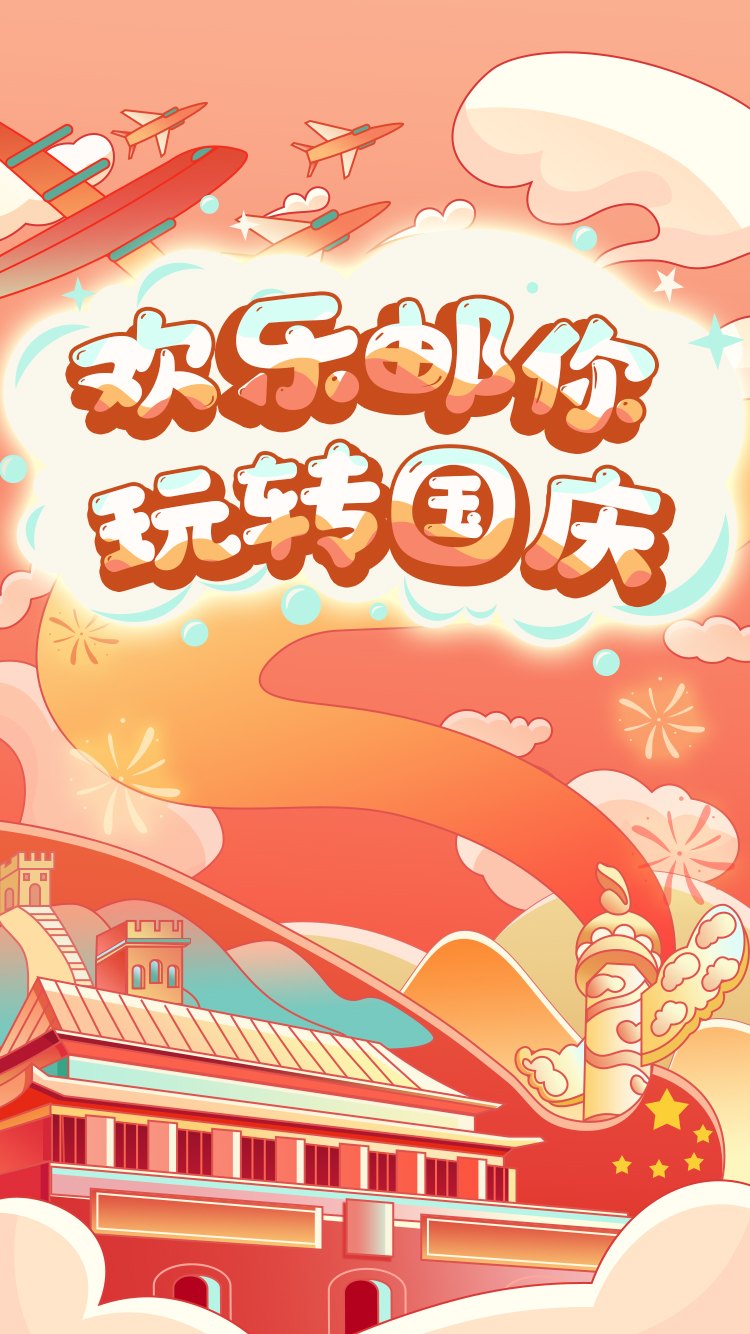
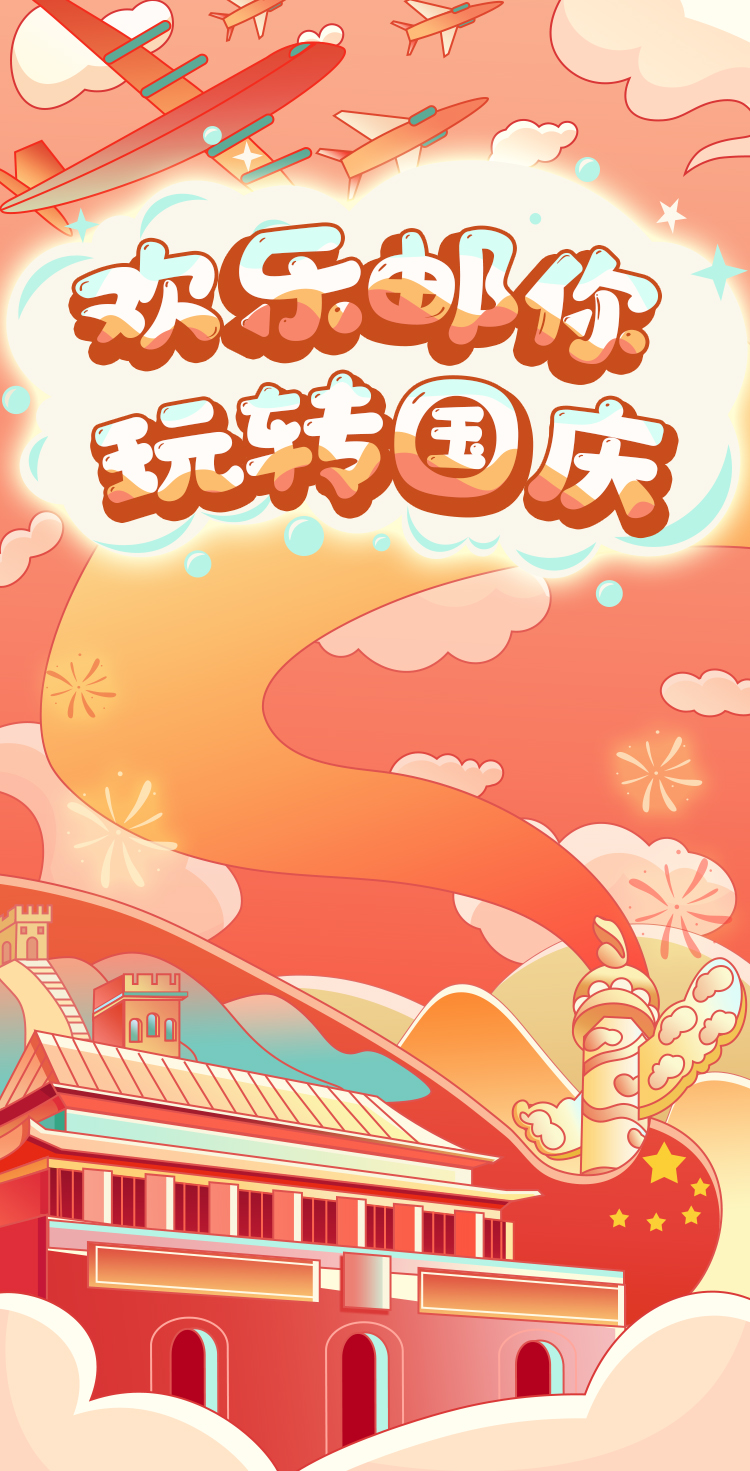
fix: 修改home背景

diff --git a/src/assets/styles/home.less b/src/assets/styles/home.less
@@ -2,7 +2,10 @@
 .home{
     position: relative;
     background-image: url(../images/home/home-background-image.png);
-    background-size: cover;
+    // background-size: cover;
+    background-size: 100%;
+    background-repeat: no-repeat;
+    // background-size: 100% 100%;
     top: 0;
     left: 0;
     width: 100vw;
@@ -44,9 +47,9 @@
             border: none;
             background-color: #FAF8EC;
             margin: 13./@vv 0 0 18./@vv;
-            font-family: ZhanKuQingKeHuangYouTi;
+            font-family: Zhan;
             color: #C84D1B;
-            font-size: 11.88./@vv;
+            font-size: 12./@vv;
             padding: 0;
         }
         .loginPopConfirm{
@@ -62,6 +65,15 @@
             background-image: url(../images/home/home-loginPop-noID.png);
             background-size: cover;
             margin-left: 69./@vv;
+        }
+        .loginPop-input-error{
+            display: none;
+            color: #C84D1B;
+            font-family: LianMeng;
+            font-size: 11./@vv;
+            position: absolute;
+            left: 114./@vv;
+            top: 117.89./@vv;
         }
     }
     ul{
@@ -91,7 +103,7 @@
             background-size: cover;
             .stuID{
                 font-size: 19./@vv;
-                font-family: ZhanKuQingKeHuangYouTi;
+                font-family: Zhan;
                 color: #C84D1C;
                 position: absolute;
                 top: 0;

diff --git a/src/assets/styles/home.css b/src/assets/styles/home.css
@@ -1,7 +1,8 @@
 .home {
   position: relative;
   background-image: url(../images/home/home-background-image.png);
-  background-size: cover;
+  background-size: 100%;
+  background-repeat: no-repeat;
   top: 0;
   left: 0;
   width: 100vw;
@@ -44,9 +45,9 @@
   border: none;
   background-color: #FAF8EC;
   margin: 3.46666667vw 0 0 4.8vw;
-  font-family: ZhanKuQingKeHuangYouTi;
+  font-family: Zhan;
   color: #C84D1B;
-  font-size: 3.168vw;
+  font-size: 3.2vw;
   padding: 0;
 }
 .home .loginPop .loginPopConfirm {
@@ -62,6 +63,15 @@
   background-image: url(../images/home/home-loginPop-noID.png);
   background-size: cover;
   margin-left: 18.4vw;
+}
+.home .loginPop .loginPop-input-error {
+  display: none;
+  color: #C84D1B;
+  font-family: LianMeng;
+  font-size: 2.93333333vw;
+  position: absolute;
+  left: 30.4vw;
+  top: 31.43733333vw;
 }
 .home ul {
   position: absolute;
@@ -92,7 +102,7 @@
 }
 .home ul .stuIDBox .stuID {
   font-size: 5.06666667vw;
-  font-family: ZhanKuQingKeHuangYouTi;
+  font-family: Zhan;
   color: #C84D1C;
   position: absolute;
   top: 0;
